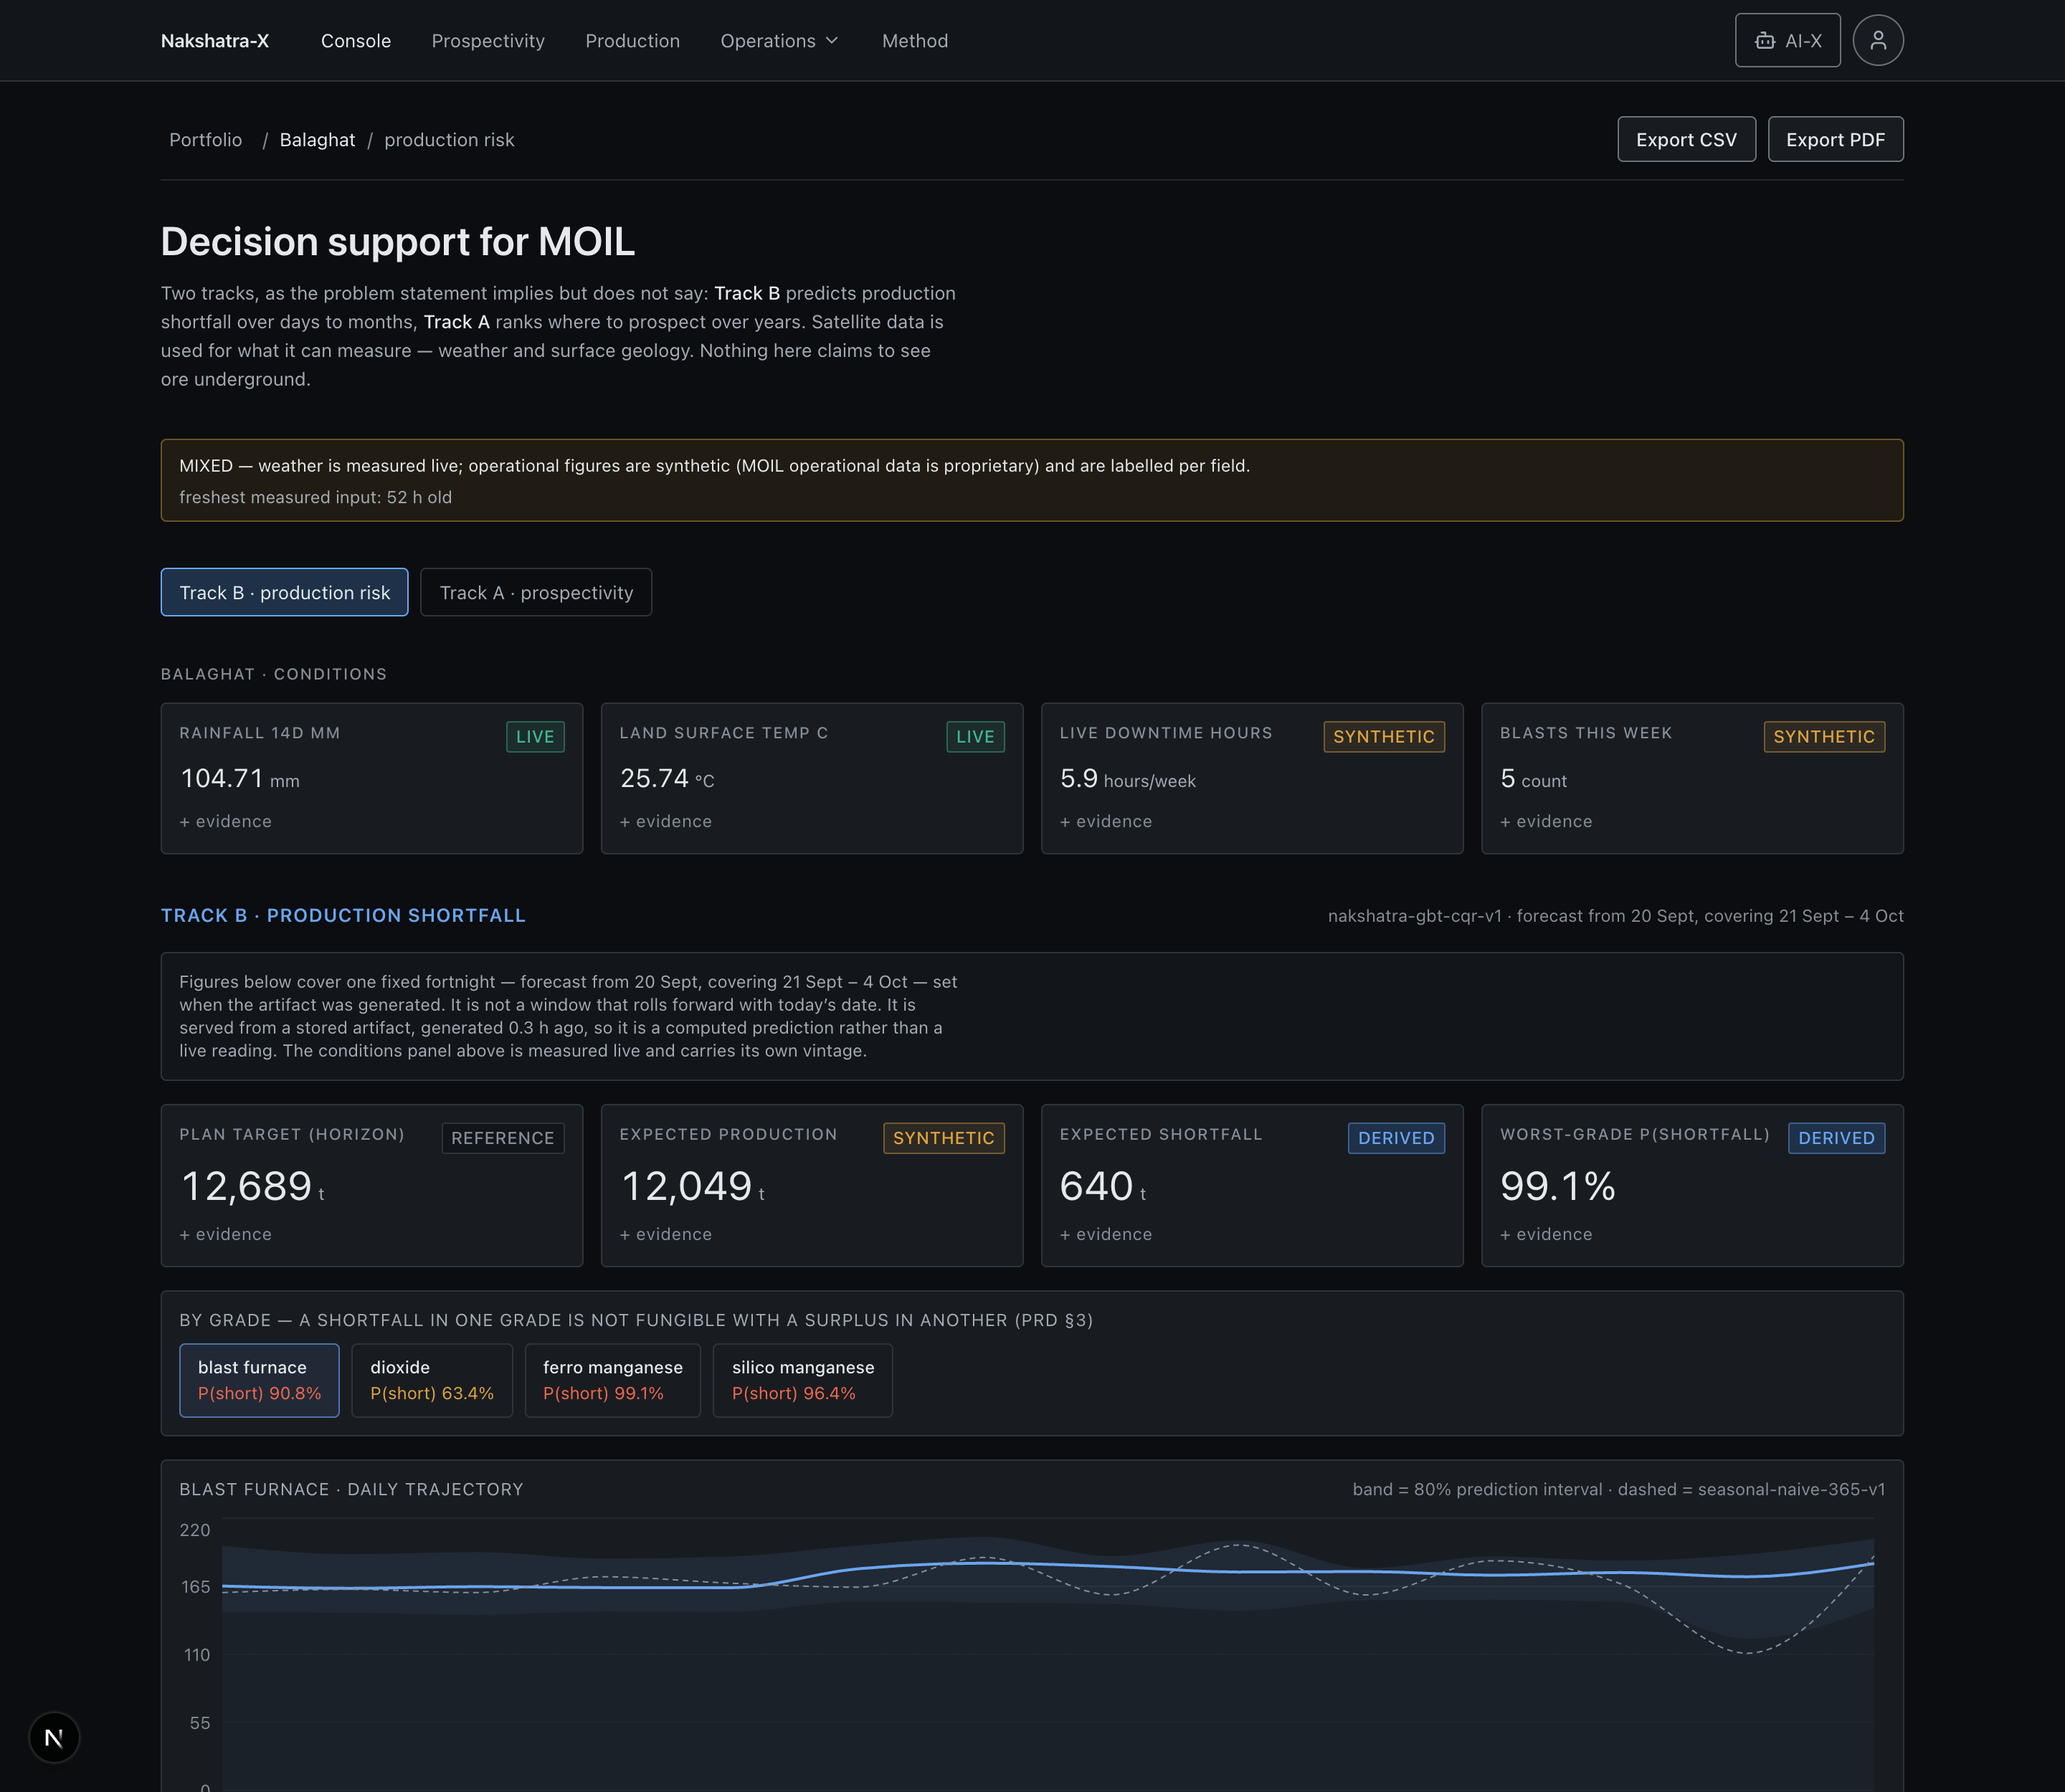
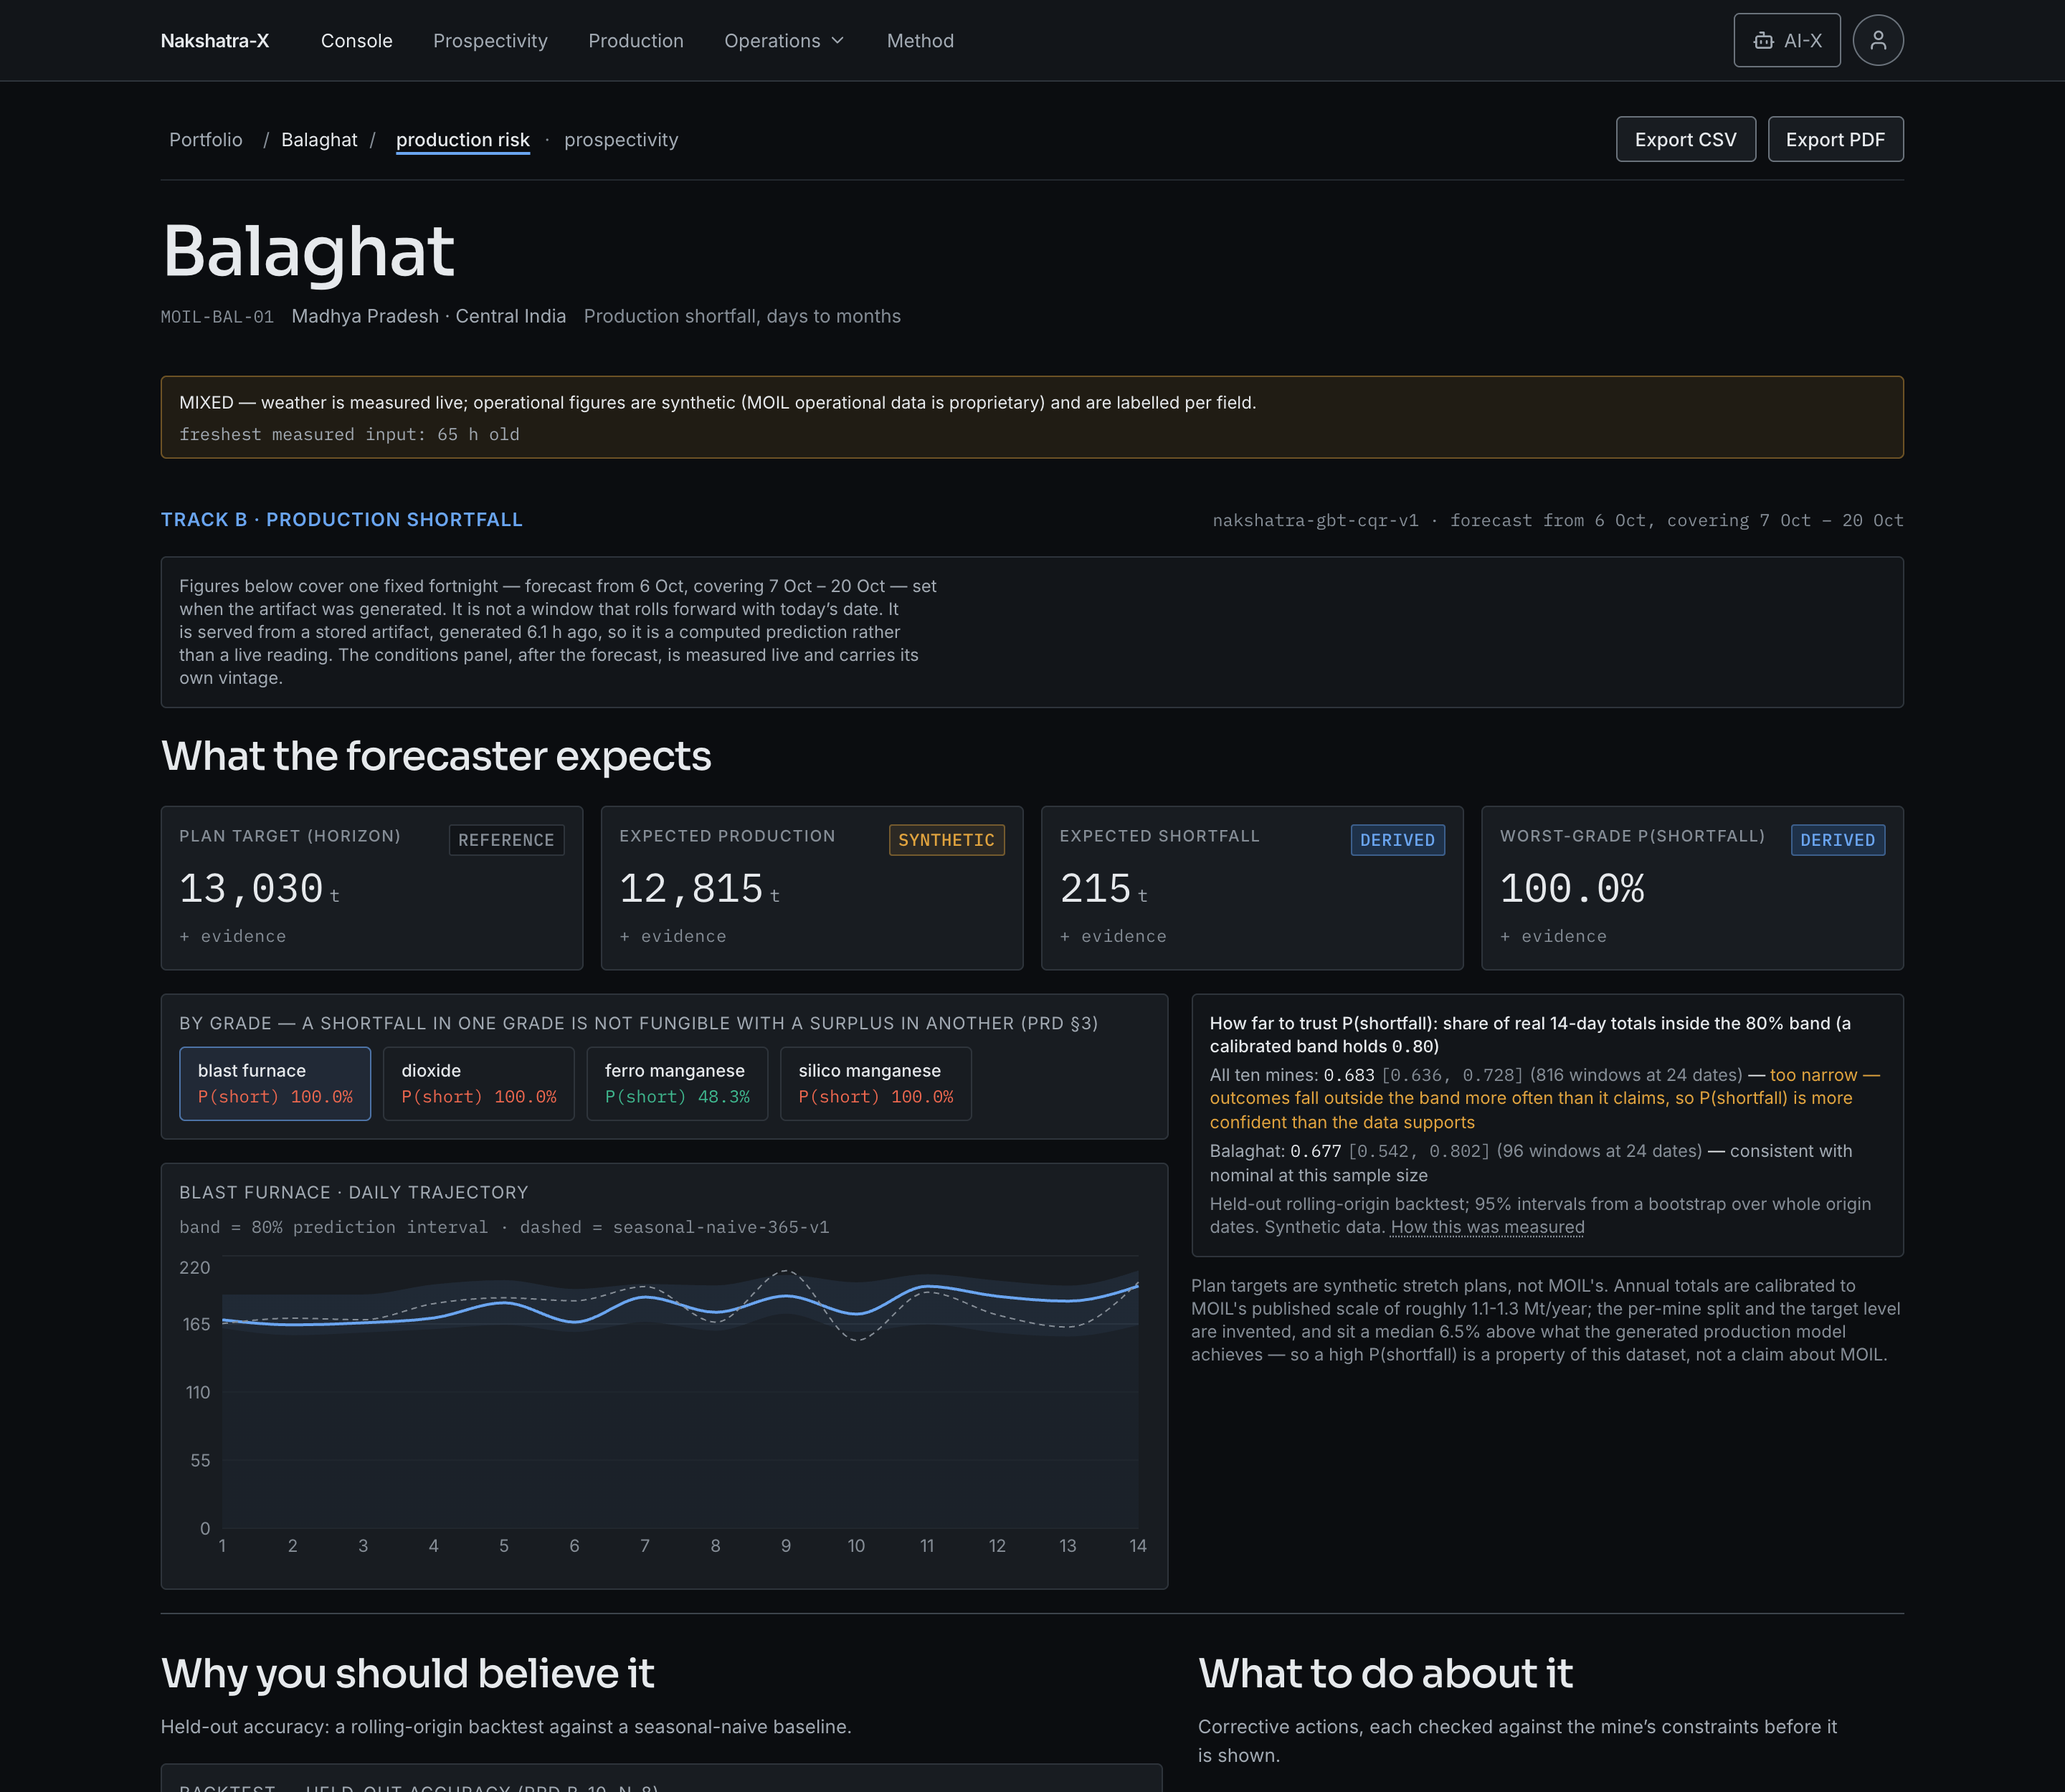
evidence: re-capture the key screenshots in the fonts as designed
Every earlier screenshot rendered in the system font (fonts fix, d96c384).
Re-captured from the cold-start rehearsal clone (fresh clone of this branch,
DEMO.md followed word for word, artifacts regenerated for 2026-10-06, live
servers):

- docs/design/after/demo/: the demo walk, one image per DEMO.md beat, with
  _walk.json — PASS 24/24; body Inter, display Sora, data IBM Plex Mono, all
  loaded; rainfall badge LIVE. The beats were renumbered when the walk
  gained the Mine-twin step (06-mine-twin.png). README.md says which
  dataset the figures come from and why they differ from the committed
  artifacts'.
- docs/evidence/console-forecast-ready.png and -warming.png, the two states
  DEMO.md tells a presenter to recognise; warming captured against a
  genuinely cold backend (forecasts moved aside, NAKSHATRA_SKIP_WARM=1).

The previous demo-walk images were deleted in 2dd8d4a, whose message does
not say so — staged for this re-capture and swept into that commit by
mistake. This commit is their replacement. Older sets
(docs/design/after-v*) are left as the record of their own PRs.

diff --git a/docs/design/after/demo/README.md b/docs/design/after/demo/README.md
@@ -1,0 +1,23 @@
+# Demo walk screenshots
+
+Produced by `node frontend/tools/demo-walk.js` (`_walk.json` holds every step's
+result and the facts it recorded), one image per beat of `docs/DEMO.md`.
+
+**Re-captured 2026-10-06, in the cold-start rehearsal** — a fresh clone that
+followed DEMO.md word for word, live servers, real network. Two things differ
+from earlier sets:
+
+- **The design system's fonts.** Every earlier screenshot in this repository
+  rendered in the system font, because Inter, Sora and IBM Plex Mono were never
+  applied (fixed in this PR; `npm run test:fonts`). These are the first that
+  show the product as designed. Older sets (`docs/design/after-v*`) are left as
+  they were, as the record of their own PRs.
+- **The dataset.** The rehearsal regenerated every artifact for 6 October, as
+  DEMO.md's "day before" says, so the figures here are that dataset's (pilot
+  MAPE 11.00% vs 13.22%, coverage 0.819; 14-day calibration 0.683) — not the
+  committed artifacts' (11.67% vs 14.81%, 0.812, 0.738). On demo day the screen
+  shows whatever the day-before regeneration produced; read figures off it.
+
+The previous screenshots of this folder were removed in commit `2dd8d4a`, whose
+message does not say so (a commit-hygiene miss, recorded in the PR); this set
+replaces them in the commit that adds this file.
